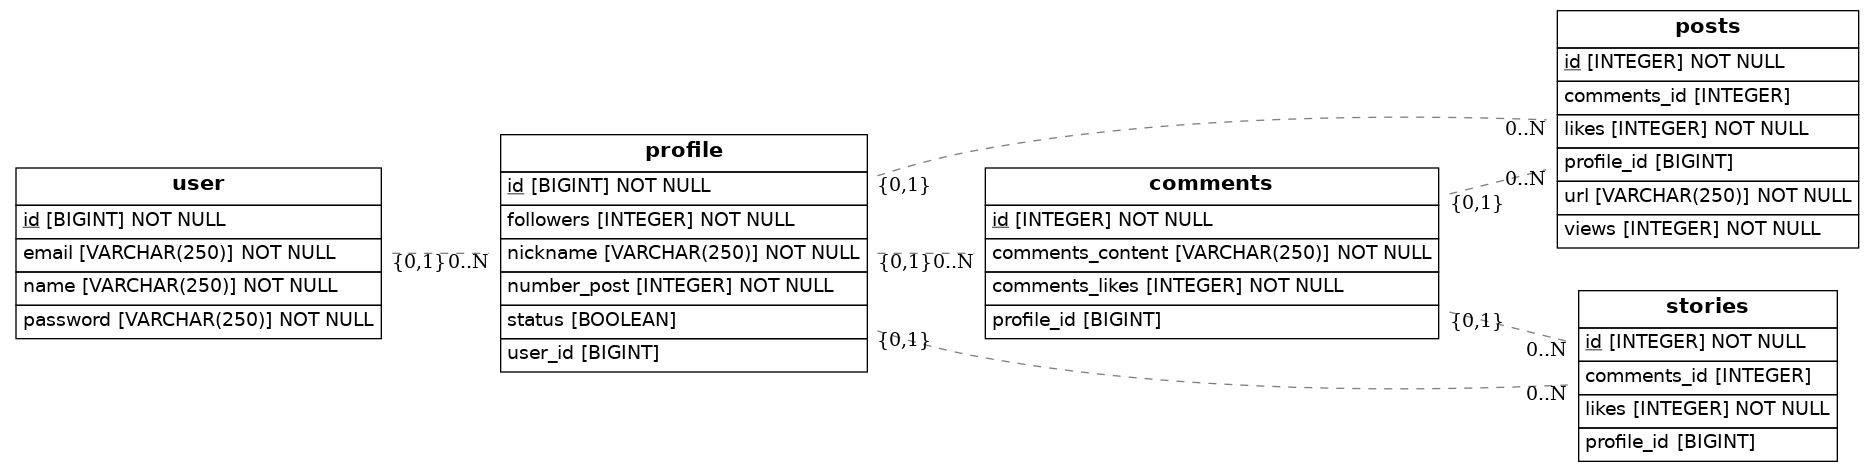
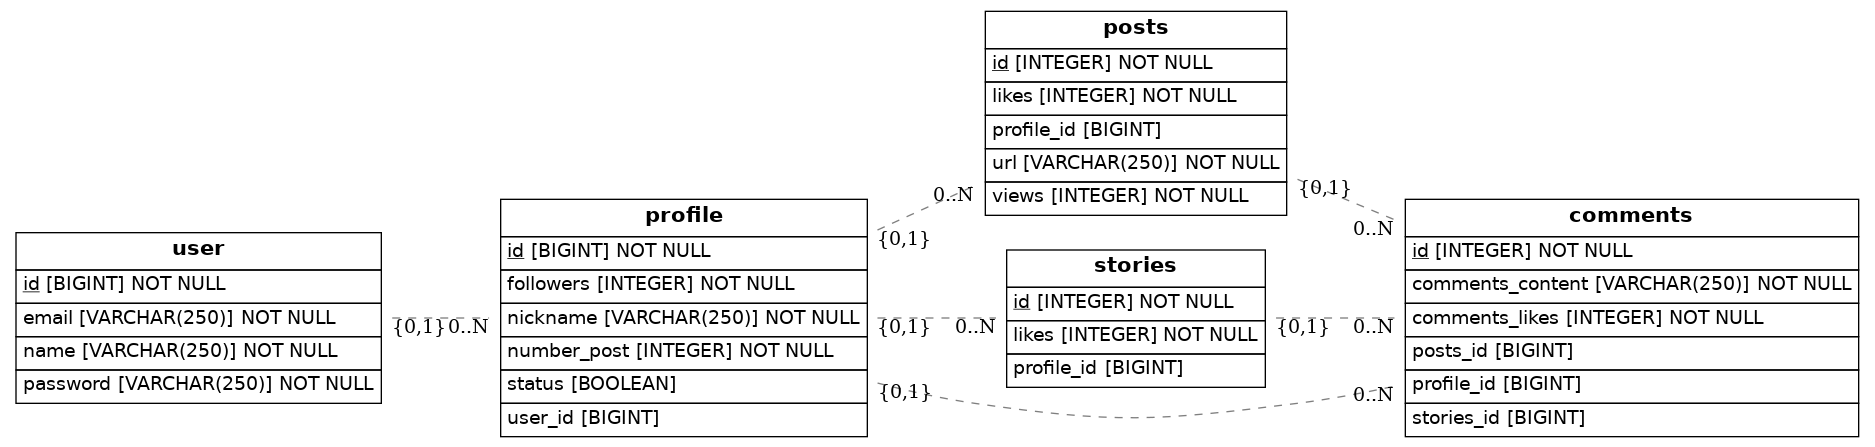
Final updates

Changed region(s): [[0.0, 0.0, 1.0, 0.9888], [0.2475, 0.9016, 0.464, 0.9888], [0.4331, 0.8434, 0.4949, 0.9306]]

diff --git a/src/models.py b/src/models.py
@@ -28,23 +28,22 @@ class Posts(Base):
     __tablename__ = 'posts'
     id = Column(Integer, primary_key=True)
     profile_id = Column(BigInteger, ForeignKey('profile.id'))
-    comments_id = Column(Integer, ForeignKey('comments.id'))
     url = Column(String(250), nullable=False)
     likes = Column(Integer, nullable=False)
-    views = Column(Integer, nullable=False)
 
 class Stories(Base):
     __tablename__ = 'stories'
     id = Column(Integer, primary_key=True)
     profile_id = Column(BigInteger, ForeignKey('profile.id'))
-    comments_id = Column(Integer, ForeignKey('comments.id'))
     likes = Column(Integer, nullable=False)
-
+    views = Column(Integer, nullable=False)
 
 class Comments(Base):
     __tablename__ = 'comments'
     id = Column(Integer, primary_key=True)
-    profile_id = Column(BigInteger, ForeignKey('profile.id'))
+    comments_user = Column(BigInteger, ForeignKey('profile.id'))
+    stories_id = Column(BigInteger, ForeignKey('stories.id'))
+    posts_id = Column(BigInteger, ForeignKey('posts.id'))
     comments_content = Column(String(250), nullable=False)
     comments_likes = Column(Integer, nullable=False)
 
